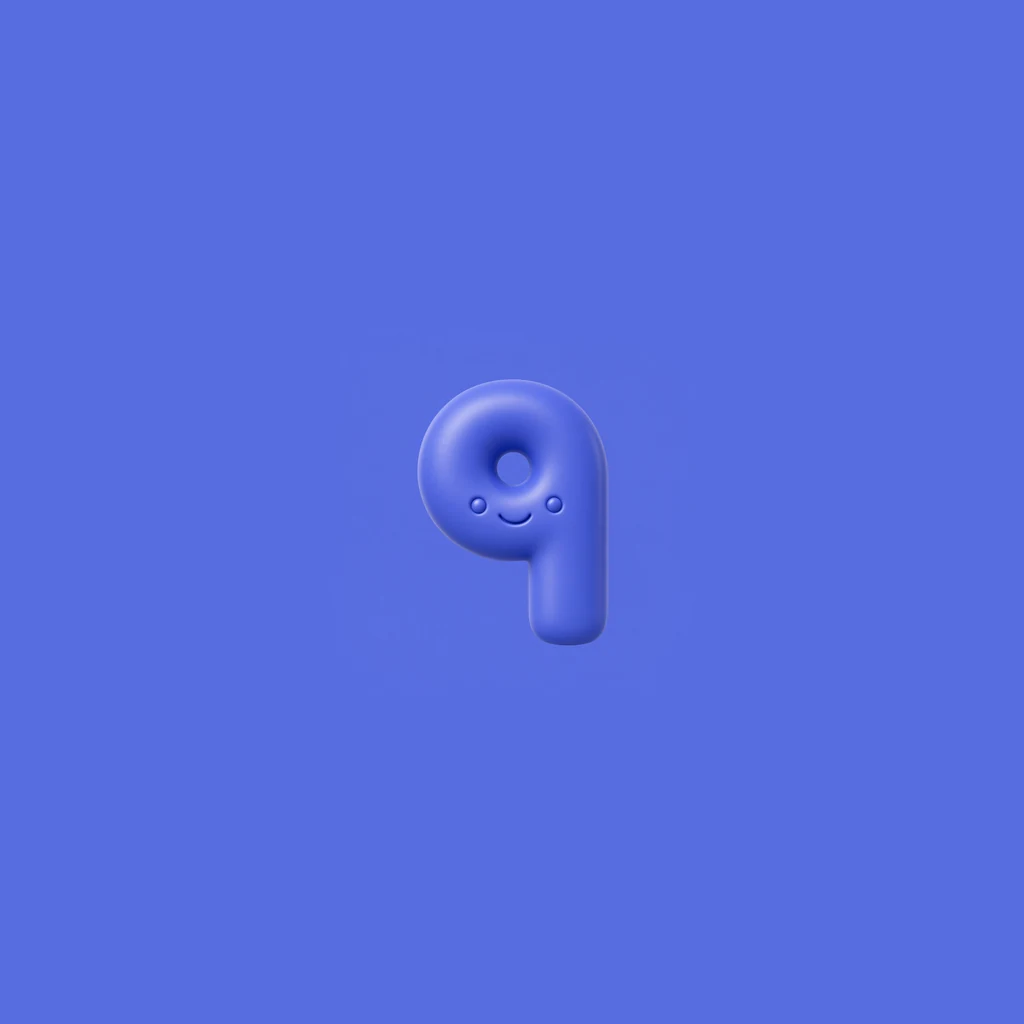
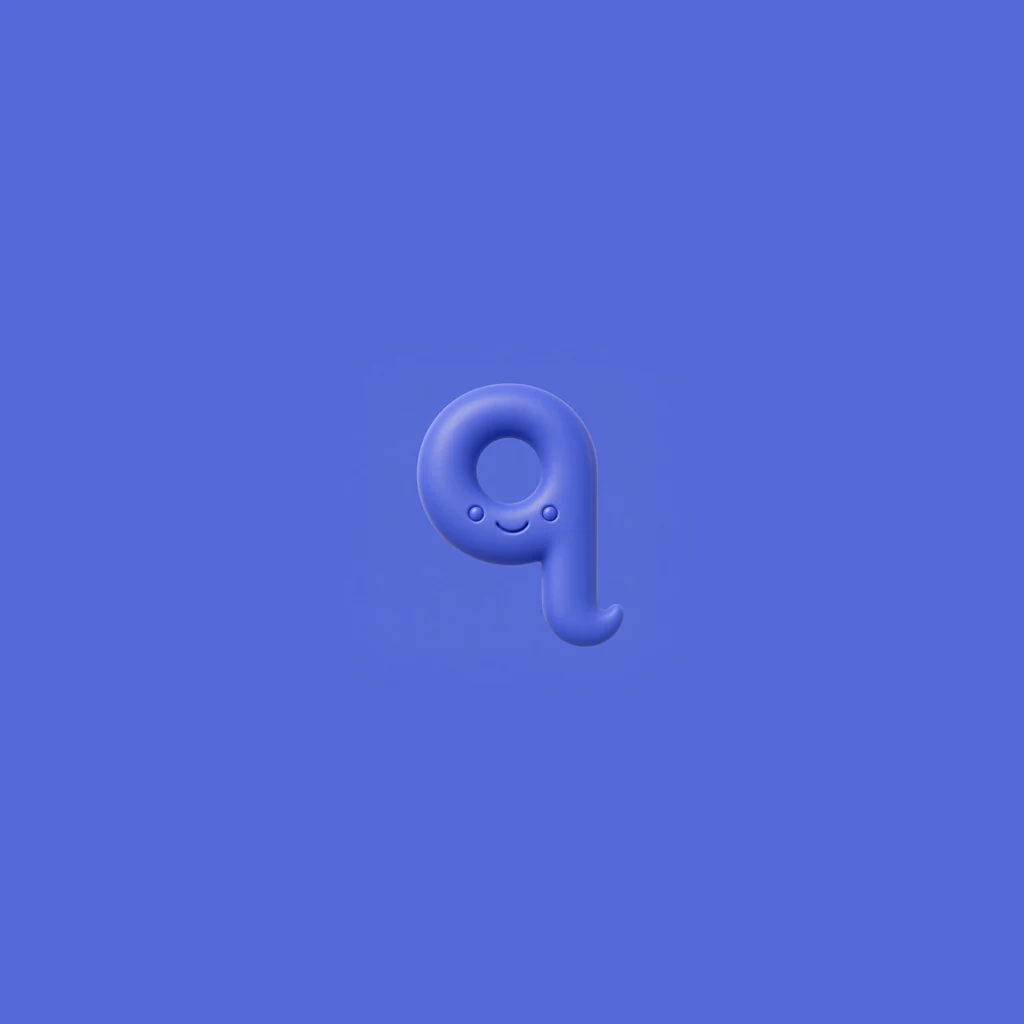
v0.169: little q tail curls slightly to the right.

Changed region(s): [[0.4062, 0.375, 0.625, 0.6562], [0.5312, 0.375, 0.5625, 0.4062]]

diff --git a/src/lib/version.ts b/src/lib/version.ts
@@ -12,7 +12,7 @@
  * Grok Publish: still remind at v0.070, v0.080… so the public link can match.
  */
 
-export const APP_VERSION = "0.168";
+export const APP_VERSION = "0.169";
 export const APP_VERSION_LABEL = `v${APP_VERSION}`;
 export const APP_SLUG = "abc-adventure";
 export const APP_DISPLAY_NAME = "ABC Adventure";

diff --git a/SESSION.md b/SESSION.md
@@ -1,6 +1,6 @@
 # Session compact — ABC Adventure
 
-**Version:** v0.168  
+**Version:** v0.169  
 **GitHub:** sh4gu4dummy-arch/abc-adventure `main`  
 **User tests in Grok live preview**, not APK, unless they ask.
 
@@ -32,6 +32,9 @@ really is done. Tap to play again (v0.129).
 | H heart | Crayon with two points | One-tip crayon; look-at-the-clip QA (not a tip-count law) |
 
 A–Z word videos exist. J–Z remade to locked sentences; A–I older unless later patched (G, H, fish, frog, etc.).
+
+## Little q (v0.169)
+Tail has a slight curl to the right.
 
 ## Little q (v0.168)
 Closer Comic Sans / Sniglet silhouette. Icon + Meet.

diff --git a/PROJECT.md b/PROJECT.md
@@ -113,7 +113,7 @@ npm run build:apk      # only when asked
 
 ## Versioning & downloads
 
-- **Current version:** `0.168` (`v0.168`) — stored in `VERSION` and `src/lib/version.ts` (keep in sync).
+- **Current version:** `0.169` (`v0.169`) — stored in `VERSION` and `src/lib/version.ts` (keep in sync).
 
 ## GitHub + Grok Publish cadence
 
